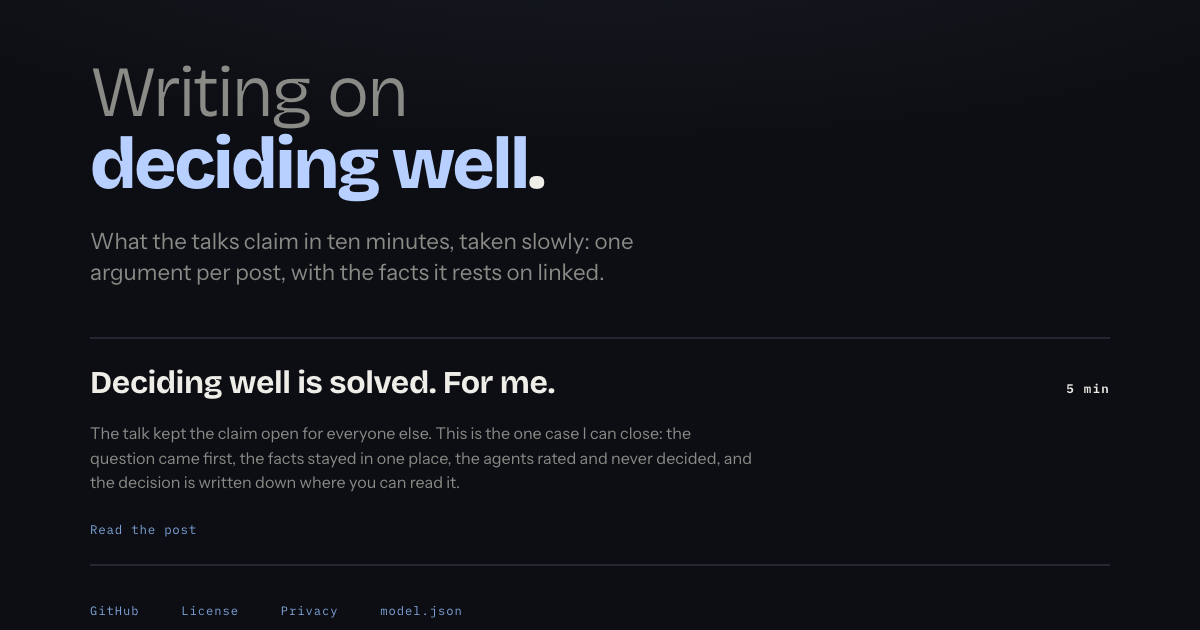
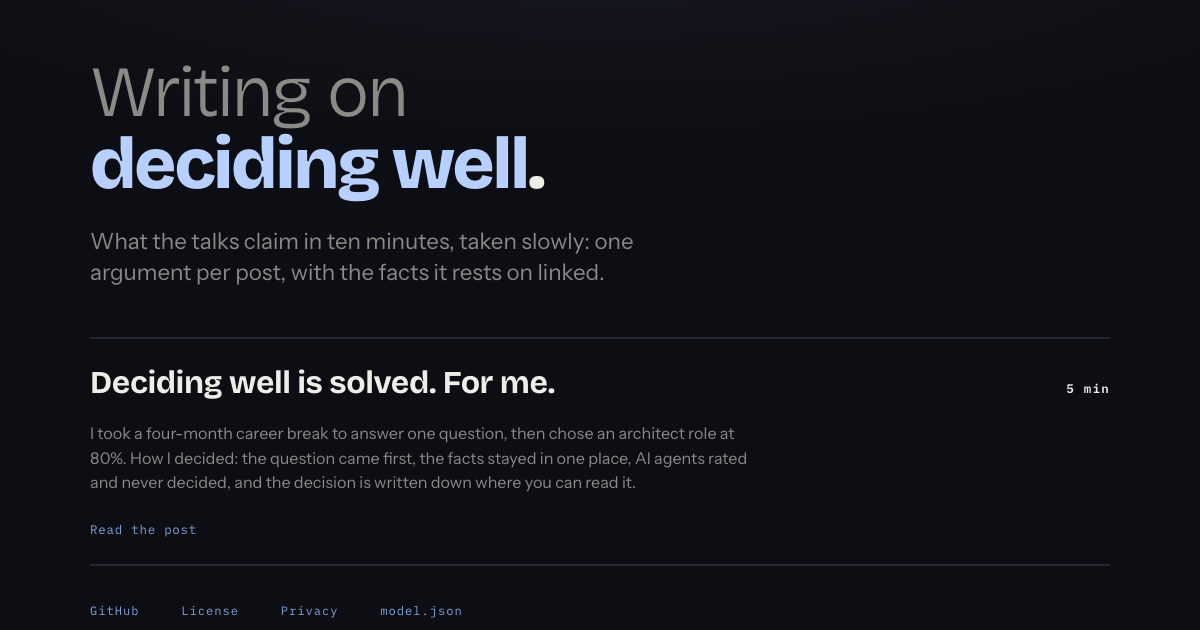
The first post opens on its story, not on the talk
A reader who had not seen the talk met "the talk", "the claim" and "the one case" before learning there was a career break, a search or a decision, and learned only past the middle of the post that its author had been a CTO. The tagline now tells the story in one sentence, the break with its one question and the architect role at its end, and the question's section opens on who was asking it, so "what I am used to being hired for" points at something.

The description, in its three copies, and the post's row on /blog/ open the same way, so a link card and the index say what the post is about before they name its method; the description says AI agents, because in a job-search story agents read as recruiters. The German of the changed values stays as it was until the English is settled, and follows in a commit of its own.

Verified: verify passes on every page against the branch served on :8766, and og:check and sitemap:check pass; npm run og re-rendered the post's and /blog/'s cards and left every other card byte for byte.

Changed region(s): [[0.0617, 0.6635, 0.6167, 0.7841]]

diff --git a/blog/deciding-well-solved/index.html b/blog/deciding-well-solved/index.html
@@ -7,13 +7,13 @@
 <link rel="canonical" href="https://blust.ch/blog/deciding-well-solved/">
 
 <title>Deciding well is solved. For me. · Robert Blust</title>
-<meta id="metadesc" name="description" content="The talk kept the claim open for everyone else. This is the one case its author can close: question first, facts in one place, agents that rated and never decided, and a decision written down.">
+<meta id="metadesc" name="description" content="A four-month career break with one question, then an architect role at 80%. How I decided: question first, facts in one place, AI agents that rated and never decided, and a decision written down.">
 
 <meta property="og:type" content="article">
 <meta property="og:site_name" content="Robert Blust">
 <meta property="og:url" content="https://blust.ch/blog/deciding-well-solved/">
 <meta property="og:title" content="Deciding well is solved. For me. · Robert Blust">
-<meta property="og:description" content="The talk kept the claim open for everyone else. This is the one case its author can close: question first, facts in one place, agents that rated and never decided, and a decision written down.">
+<meta property="og:description" content="A four-month career break with one question, then an architect role at 80%. How I decided: question first, facts in one place, AI agents that rated and never decided, and a decision written down.">
 <meta property="og:image" content="https://blust.ch/blog/deciding-well-solved/og.png">
 <meta property="og:image:width" content="1200">
 <meta property="og:image:height" content="630">
@@ -263,7 +263,7 @@
 
     <div class="title">
       <h1 id="p1" data-de="<span class='r70'>Gut entscheiden ist gelöst.</span><span class='rcl'>Für <em>mich</em>.</span>"><span class="r70">Deciding well is solved.</span><span class="rcl">For <em>me</em>.</span></h1>
-      <p class="tagline" id="p2" data-de="Der Vortrag liess die Behauptung für alle anderen offen. Dies ist der eine Fall, den ich schliessen kann, denn der Entscheid ist festgehalten, und Sie können ihn nachlesen.">The talk kept the claim open for everyone else. This is the one case I can close, because the decision is written down and you can read it.</p>
+      <p class="tagline" id="p2" data-de="Der Vortrag liess die Behauptung für alle anderen offen. Dies ist der eine Fall, den ich schliessen kann, denn der Entscheid ist festgehalten, und Sie können ihn nachlesen.">I took a four-month career break to answer one question, then chose an architect role at 80%. How I decided is the one case I can call solved.</p>
       <p class="stamp mono" id="p25" data-de="<time datetime='2026-09-26'>26. Sept. 2026</time> · 5 min"><time datetime="2026-09-26">Sep 26, 2026</time> · 5 min</p>
     </div>
 
@@ -277,7 +277,7 @@
 
       <section>
         <h2 id="p6" data-de="Die Frage kam zuerst">The question came first</h2>
-        <p id="p7" data-de="Die Auszeit begann mit einer einzigen Frage, festgehalten, bevor die erste Bewerbung hinausging:">The break began with one question, written down before the first application:</p>
+        <p id="p7" data-de="Die Auszeit begann mit einer einzigen Frage, festgehalten, bevor die erste Bewerbung hinausging:">The break came after years of leading technology, first as a CTO, then as head of technology. It began with one question, written down before the first application:</p>
         <p id="p27" class="keyline" data-de="Was mache ich gern – und nicht: Wofür werde ich üblicherweise eingestellt?">What do I like doing, rather than what am I used to being hired for?</p>
         <p id="p28" data-de="Das ist eine andere Frage als die, welche Stelle ich annehmen soll, und auf diesen Unterschied kommt es an. Eine Stelle ist eine Antwort, und eine Antwort, die vor der Frage gewählt wird, ist eine Gewohnheit.">That is a different question from which job to take, and the difference is the point. A job is an answer, and an answer chosen before the question is a habit.</p>
         <p id="p8" data-de="Zwei Richtungen blieben absichtlich offen, Engineering nah am Code und Architektur, weil ich nicht wusste, welche die Antwort war, und das nicht nach Geschmack klären wollte. Die Antwort überliess ich dem Markt, und die Bewerbungen wurden zum Experiment: Welche Richtung würde zu Vorstellungsgesprächen führen, und welches Gespräch würde etwas über die Frage sagen?">Two tracks stayed open on purpose, hands-on engineering and architecture, because I did not know which was the answer and did not want to settle it by taste. The market was allowed to answer, and the applications became the experiment: which track would lead to interviews, and which interview would say something about the question.</p>
@@ -426,7 +426,7 @@
     de:{ title:"Gut entscheiden ist gelöst. Für mich. · Robert Blust",
          desc:"Der Vortrag liess die Behauptung für alle anderen offen. Dies ist der eine Fall, den sein Autor schliessen kann: die Frage zuerst, die Fakten an einem Ort, Agenten, die bewerteten und nie entschieden, und ein Entscheid, der festgehalten ist." },
     en:{ title:"Deciding well is solved. For me. · Robert Blust",
-         desc:"The talk kept the claim open for everyone else. This is the one case its author can close: question first, facts in one place, agents that rated and never decided, and a decision written down." }
+         desc:"A four-month career break with one question, then an architect role at 80%. How I decided: question first, facts in one place, AI agents that rated and never decided, and a decision written down." }
   };
 
   function applyLang(){

diff --git a/blog/index.html b/blog/index.html
@@ -223,7 +223,7 @@
       <a class="entry" href="deciding-well-solved/">
         <span class="t" data-de="Gut entscheiden ist gelöst. Für mich.">Deciding well is solved. For me.</span>
         <span class="meta mono"><b data-de="5 min">5 min</b></span>
-        <span class="d" data-de="Für alle anderen gilt weiter, was der Vortrag behauptet. Diesen einen Fall kann ich abschliessen: Die Frage kam zuerst, die Fakten blieben an einem Ort, die Agenten bewerteten, entschieden aber nie, und der Entscheid ist festgehalten, wo Sie ihn nachlesen können.">The talk kept the claim open for everyone else. This is the one case I can close: the question came first, the facts stayed in one place, the agents rated and never decided, and the decision is written down where you can read it.</span>
+        <span class="d" data-de="Für alle anderen gilt weiter, was der Vortrag behauptet. Diesen einen Fall kann ich abschliessen: Die Frage kam zuerst, die Fakten blieben an einem Ort, die Agenten bewerteten, entschieden aber nie, und der Entscheid ist festgehalten, wo Sie ihn nachlesen können.">I took a four-month career break to answer one question, then chose an architect role at 80%. How I decided: the question came first, the facts stayed in one place, AI agents rated and never decided, and the decision is written down where you can read it.</span>
       </a>
       <p class="dl mono"><a href="deciding-well-solved/" data-de="Beitrag lesen">Read the post</a></p>
       </div>
